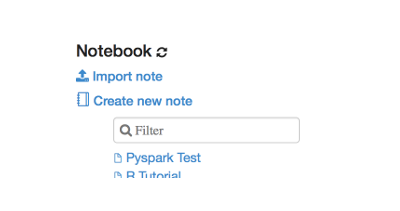
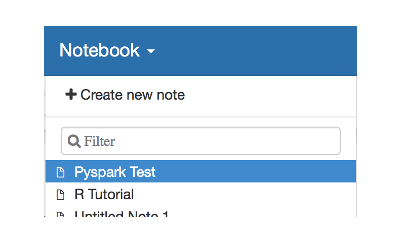
update readme

diff --git a/examples/Zeppelin/README.md b/examples/Zeppelin/README.md
@@ -75,9 +75,9 @@ Follow the instructions output by the Run command.
 
 ### Test Zeppelin with Pyspark
 
-First run Zeppelin.  In the brower window, you should see a list of notebooks:
+First run Zeppelin.  In the brower window, you should see an option for configuring interpreters by clicking on the drop down menu button at the top right of the window:
 
-![Pyspark Test Notebook](./Pyspark_Test.png)
+![Configure Interpreters](./ConfigureInterpreters.png)
 
 - Click on the drop down arrow at the top right
   - Select Interpreter
@@ -92,6 +92,11 @@ First run Zeppelin.  In the brower window, you should see a list of notebooks:
               - Change 'master' to 'yarn-client'
               - Click Save
               - Click OK to save and restart the interpreter
+
+Click on the Notebook dropdown menu from the main toolbar and click on the Pyspark Test notebook:
+
+![Pyspark Test Notebook](./Pyspark_Test.png)
+
 - Click on the 'Pyspark Test' notebook to open it
 - Click on the run button in the notebook windows to execute the notebook code 
 - Verify the row count output from spark equals the expected row count
